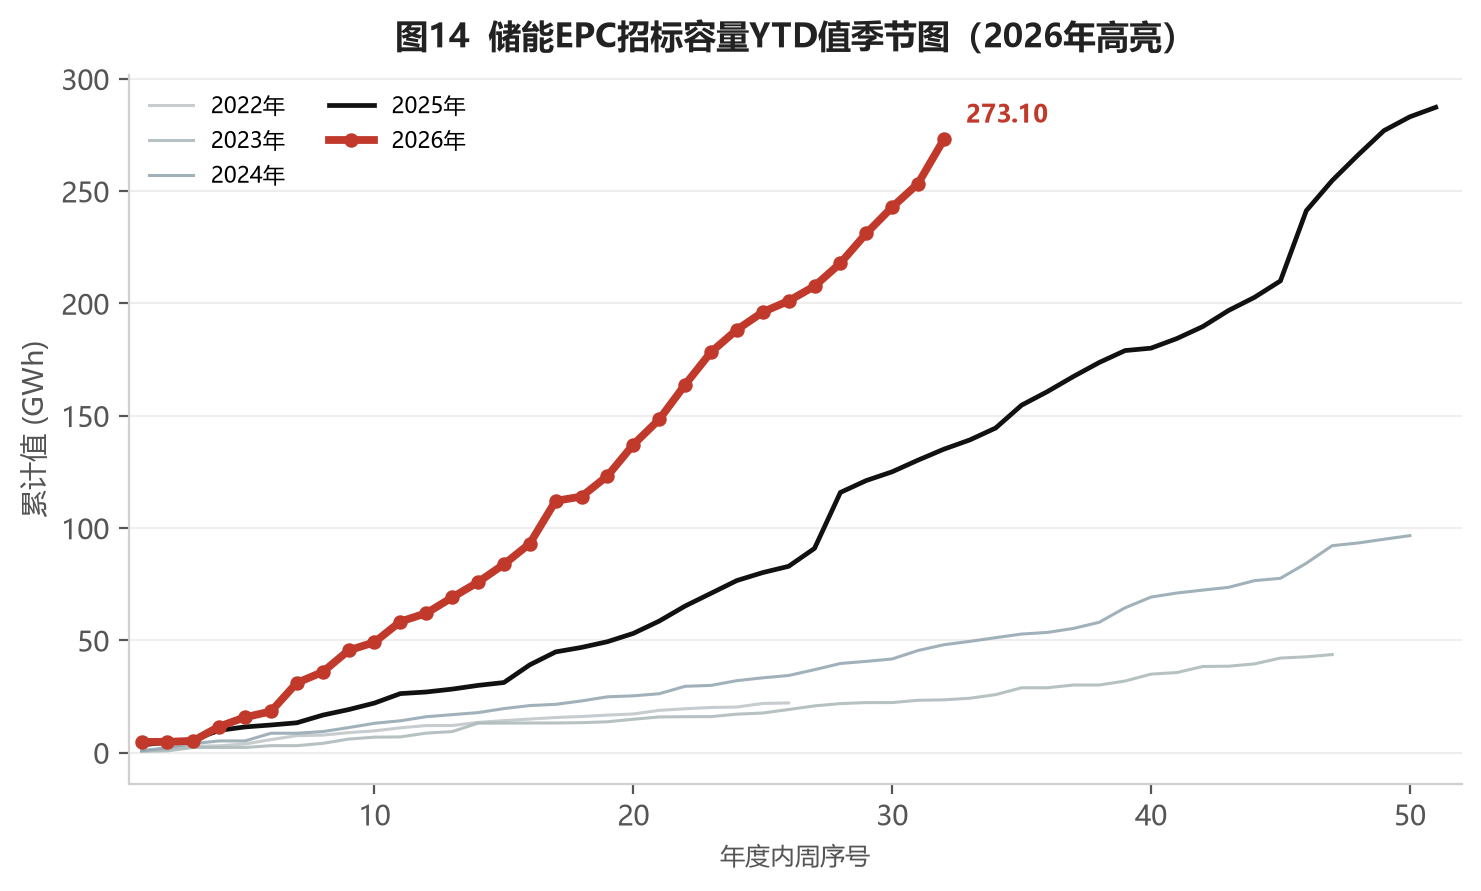
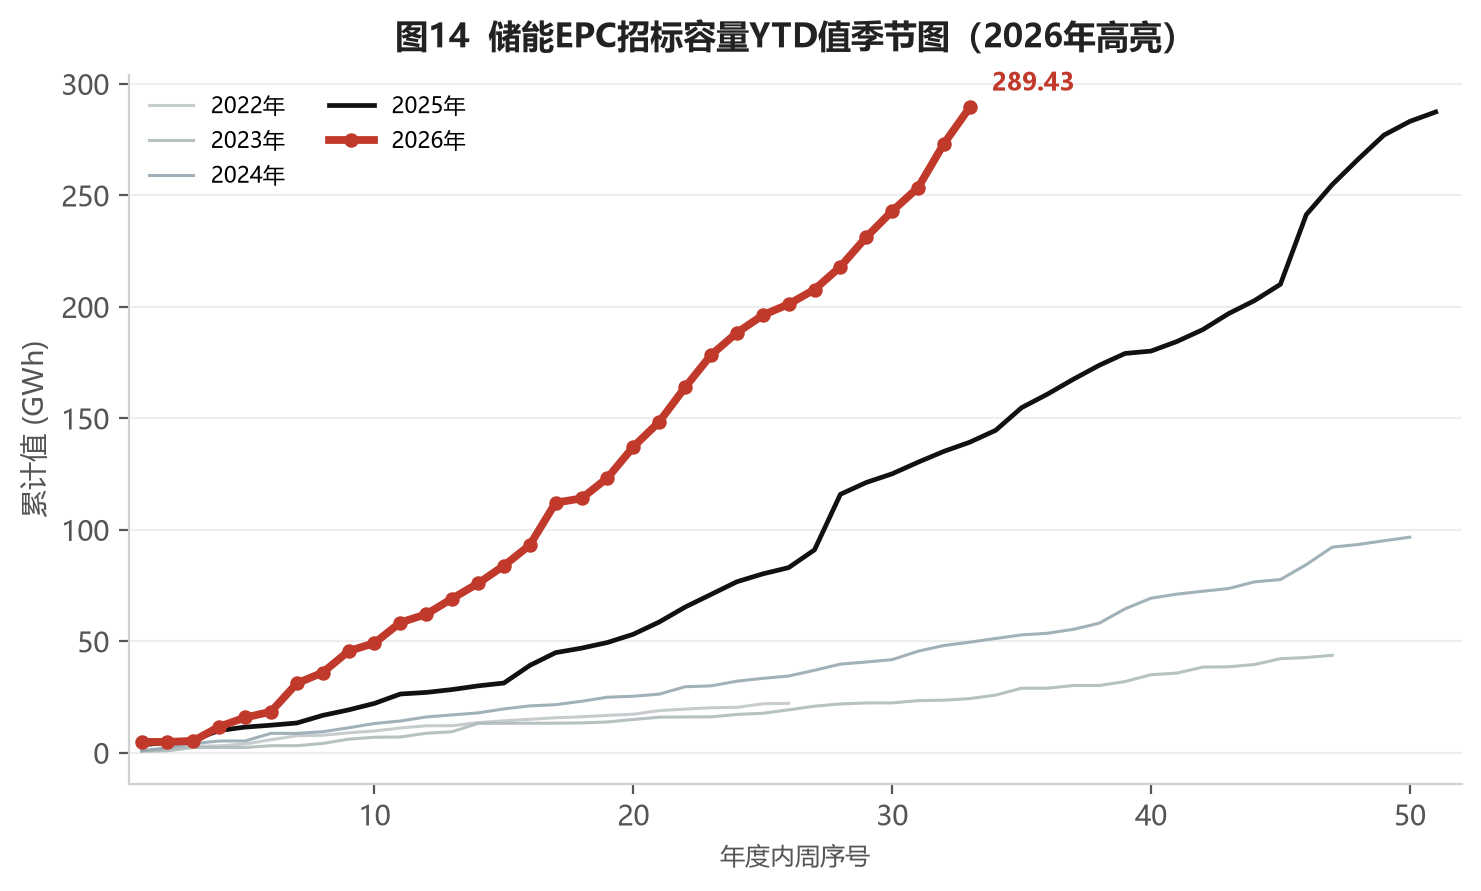
update weekly report 2026-08-23

diff --git a/docs/index.html b/docs/index.html
@@ -3,7 +3,7 @@
 <head>
 <meta charset="UTF-8" />
 <meta name="viewport" content="width=device-width, initial-scale=1.0" />
-<title>储能行业周报 · 储能招中标板块（2026-08-14）</title>
+<title>储能行业周报 · 储能招中标板块（2026-08-21）</title>
 <meta name="description" content="储能行业周度招中标数据报告：周度规模、累计规模、EPC/系统分项、中标价格走势。" />
 <style>
 :root {
@@ -52,13 +52,13 @@ footer{text-align:center;color:var(--muted);font-size:12px;padding:26px 0;
 <header class="hero">
   <div class="container">
     <h1>储能行业周报 · 储能招中标板块</h1>
-    <div class="meta">数据周期：2022-07-01 ~ 2026-08-14 · 本周：2026-08-08 至 2026-08-14（2026年第32周）· 共 206 周数据 · 生成于 2026-08-16 20:21:24</div>
+    <div class="meta">数据周期：2022-07-01 ~ 2026-08-21 · 本周：2026-08-15 至 2026-08-21（2026年第33周）· 共 207 周数据 · 生成于 2026-08-23 22:21:09</div>
   </div>
 </header>
 <div class="container">
     <section class="sec">
       <h2>一、中国|储能周度招中标</h2>
-      <div class="desc"><p class="d">本周：2026-08-08 至 2026-08-14</p><p class="d">招标项目 <b>43</b> 个，规模合计 <b>7.74</b>GW/<b>25.30</b>GWh，环比 <span class="chg up">+107.3%</span>/<span class="chg up">+130.9%</span>，同比 <span class="chg up">+174.0%</span>/<span class="chg up">+245.2%</span>。</p><p class="d">中标项目 <b>50</b> 个，规模合计 <b>7.98</b>GW/<b>53.91</b>GWh，环比 <span class="chg up">+150.3%</span>/<span class="chg up">+508.6%</span>，同比 <span class="chg up">+198.6%</span>/<span class="chg up">+681.3%</span>。</p></div>
+      <div class="desc"><p class="d">本周：2026-08-15 至 2026-08-21</p><p class="d">招标项目 <b>34</b> 个，规模合计 <b>5.37</b>GW/<b>22.87</b>GWh，环比 <span class="chg down">-30.6%</span>/<span class="chg down">-9.6%</span>，同比 <span class="chg up">+270.6%</span>/<span class="chg up">+422.9%</span>。</p><p class="d">中标项目 <b>51</b> 个，规模合计 <b>7.27</b>GW/<b>25.21</b>GWh，环比 <span class="chg down">-8.9%</span>/<span class="chg down">-53.2%</span>，同比 <span class="chg up">+61.7%</span>/<span class="chg up">+74.8%</span>。</p></div>
       <div class="charts">
       <figure class="fig"><img src="assets/images/fig_01.png" alt="图1：储能合计招标功率当周值季节图" loading="lazy" /></figure>
       <figure class="fig"><img src="assets/images/fig_02.png" alt="图2：储能合计中标功率当周值季节图" loading="lazy" /></figure>
@@ -69,7 +69,7 @@ footer{text-align:center;color:var(--muted);font-size:12px;padding:26px 0;
 
     <section class="sec">
       <h2>二、中国|储能周度招中标（累计）</h2>
-      <div class="desc"><p class="d">截至 2026-08-14</p><p class="d">招标累计规模 <b>121.53</b>GW/<b>412.54</b>GWh，环比 <span class="chg up">+6.8%</span>/<span class="chg up">+6.5%</span>，同比 <span class="chg up">+99.6%</span>/<span class="chg up">+109.7%</span>。</p><p class="d">中标累计规模 <b>131.57</b>GW/<b>524.84</b>GWh，环比 <span class="chg up">+6.5%</span>/<span class="chg up">+11.4%</span>，同比 <span class="chg up">+40.3%</span>/<span class="chg up">+51.3%</span>。</p></div>
+      <div class="desc"><p class="d">截至 2026-08-21</p><p class="d">招标累计规模 <b>126.90</b>GW/<b>435.41</b>GWh，环比 <span class="chg up">+4.4%</span>/<span class="chg up">+5.5%</span>，同比 <span class="chg up">+103.5%</span>/<span class="chg up">+116.5%</span>。</p><p class="d">中标累计规模 <b>138.84</b>GW/<b>550.05</b>GWh，环比 <span class="chg up">+5.5%</span>/<span class="chg up">+4.8%</span>，同比 <span class="chg up">+41.3%</span>/<span class="chg up">+52.2%</span>。</p></div>
       <div class="charts">
       <figure class="fig"><img src="assets/images/fig_05.png" alt="图5：储能合计招标功率YTD值季节图" loading="lazy" /></figure>
       <figure class="fig"><img src="assets/images/fig_06.png" alt="图6：储能合计中标功率YTD值季节图" loading="lazy" /></figure>
@@ -80,7 +80,7 @@ footer{text-align:center;color:var(--muted);font-size:12px;padding:26px 0;
 
     <section class="sec">
       <h2>三、储能EPC招中标规模（周度）</h2>
-      <div class="desc"><p class="d">本周：2026-08-08 至 2026-08-14</p><p class="d">储能EPC<b>招标</b>：<b>6.29</b>GW/<b>19.72</b>GWh，环比 <span class="chg up">+74.4%</span>/<span class="chg up">+88.0%</span>，同比 <span class="chg up">+198.3%</span>/<span class="chg up">+304.2%</span>；本年累计<b>招标</b> <b>100.73</b>GW/<b>273.10</b>GWh，同比 <span class="chg up">+118.9%</span>/<span class="chg up">+102.1%</span>。</p><p class="d">储能EPC<b>中标</b>：<b>6.21</b>GW/<b>17.19</b>GWh，环比 <span class="chg up">+116.0%</span>/<span class="chg up">+127.4%</span>，同比 <span class="chg up">+217.3%</span>/<span class="chg up">+241.9%</span>；本年累计<b>中标</b> <b>106.90</b>GW/<b>308.51</b>GWh，同比 <span class="chg up">+81.2%</span>/<span class="chg up">+87.9%</span>。</p></div>
+      <div class="desc"><p class="d">本周：2026-08-15 至 2026-08-21</p><p class="d">储能EPC<b>招标</b>：<b>4.72</b>GW/<b>16.32</b>GWh，环比 <span class="chg down">-24.9%</span>/<span class="chg down">-17.2%</span>，同比 <span class="chg up">+257.9%</span>/<span class="chg up">+297.1%</span>；本年累计<b>招标</b> <b>105.46</b>GW/<b>289.43</b>GWh，同比 <span class="chg up">+122.8%</span>/<span class="chg up">+107.9%</span>。</p><p class="d">储能EPC<b>中标</b>：<b>6.64</b>GW/<b>20.47</b>GWh，环比 <span class="chg up">+6.8%</span>/<span class="chg up">+19.1%</span>，同比 <span class="chg up">+181.1%</span>/<span class="chg up">+225.6%</span>；本年累计<b>中标</b> <b>113.54</b>GW/<b>328.97</b>GWh，同比 <span class="chg up">+85.1%</span>/<span class="chg up">+93.0%</span>。</p></div>
       <div class="charts cols4">
       <figure class="fig"><img src="assets/images/fig_09.png" alt="图9：储能EPC招标功率当周值季节图" loading="lazy" /></figure>
       <figure class="fig"><img src="assets/images/fig_10.png" alt="图10：储能EPC招标功率YTD值季节图" loading="lazy" /></figure>
@@ -95,7 +95,7 @@ footer{text-align:center;color:var(--muted);font-size:12px;padding:26px 0;
 
     <section class="sec">
       <h2>四、储能系统招中标规模（周度）</h2>
-      <div class="desc"><p class="d">本周：2026-08-08 至 2026-08-14</p><p class="d">储能系统<b>招标</b>：<b>1.45</b>GW/<b>5.58</b>GWh，环比 <span class="chg up">+1033.3%</span>/<span class="chg up">+1091.4%</span>，同比 <span class="chg up">+102.7%</span>/<span class="chg up">+127.8%</span>；本年累计<b>招标</b> <b>17.59</b>GW/<b>106.41</b>GWh，同比 <span class="chg up">+15.7%</span>/<span class="chg up">+72.7%</span>。</p><p class="d">储能系统<b>中标</b>：<b>1.76</b>GW/<b>36.73</b>GWh，环比 <span class="chg up">+468.5%</span>/<span class="chg up">+2721.7%</span>，同比 <span class="chg up">+147.2%</span>/<span class="chg up">+1860.2%</span>；本年累计<b>中标</b> <b>21.93</b>GW/<b>171.20</b>GWh，同比 <span class="chg down">-37.2%</span>/<span class="chg down">-15.1%</span>。</p></div>
+      <div class="desc"><p class="d">本周：2026-08-15 至 2026-08-21</p><p class="d">储能系统<b>招标</b>：<b>0.65</b>GW/<b>6.55</b>GWh，环比 <span class="chg down">-55.2%</span>/<span class="chg up">+17.3%</span>，同比 <span class="chg up">+394.1%</span>/<span class="chg up">+2392.2%</span>；本年累计<b>招标</b> <b>18.24</b>GW/<b>112.95</b>GWh，同比 <span class="chg up">+18.9%</span>/<span class="chg up">+82.6%</span>。</p><p class="d">储能系统<b>中标</b>：<b>0.63</b>GW/<b>4.74</b>GWh，环比 <span class="chg down">-64.2%</span>/<span class="chg down">-87.1%</span>，同比 <span class="chg down">-70.4%</span>/<span class="chg down">-41.7%</span>；本年累计<b>中标</b> <b>22.56</b>GW/<b>175.94</b>GWh，同比 <span class="chg down">-39.1%</span>/<span class="chg down">-16.1%</span>。</p></div>
       <div class="charts cols4">
       <figure class="fig"><img src="assets/images/fig_17.png" alt="图17：储能系统招标功率当周值季节图" loading="lazy" /></figure>
       <figure class="fig"><img src="assets/images/fig_18.png" alt="图18：储能系统招标功率YTD值季节图" loading="lazy" /></figure>
@@ -110,7 +110,7 @@ footer{text-align:center;color:var(--muted);font-size:12px;padding:26px 0;
 
     <section class="sec">
       <h2>五、储能价格（周度）</h2>
-      <div class="desc"><p class="d">本周：2026-08-08 至 2026-08-14</p><p class="d">储能EPC中标报价区间：【<b>0.6491</b>-<b>1.7577</b>】元/Wh，储能EPC中标均价 <b>1.0809</b> 元/Wh（环比 <span class="chg up">+0.4%</span>，同比 <span class="chg up">+9.6%</span>）。</p><p class="d">储能系统中标报价区间：【<b>0.5250</b>-<b>0.6199</b>】元/Wh，储能系统中标均价 <b>0.5893</b> 元/Wh（环比 <span class="chg down">-6.6%</span>，同比 <span class="chg up">+0.7%</span>）。</p></div>
+      <div class="desc"><p class="d">本周：2026-08-15 至 2026-08-21</p><p class="d">储能EPC中标报价区间：【<b>0.5894</b>-<b>1.3990</b>】元/Wh，储能EPC中标均价 <b>1.0127</b> 元/Wh（环比 <span class="chg down">-6.3%</span>，同比 <span class="chg up">+0.2%</span>）。</p><p class="d">储能系统中标报价区间：【<b>0.5300</b>-<b>0.7802</b>】元/Wh，储能系统中标均价 <b>0.6645</b> 元/Wh（环比 <span class="chg up">+12.8%</span>，同比 <span class="chg up">+50.8%</span>）。</p></div>
       <div class="charts">
       <figure class="fig"><img src="assets/images/fig_25.png" alt="图25：储能系统中标均价季节图" loading="lazy" /></figure>
       <figure class="fig"><img src="assets/images/fig_26.png" alt="图26：储能EPC中标均价季节图" loading="lazy" /></figure>
